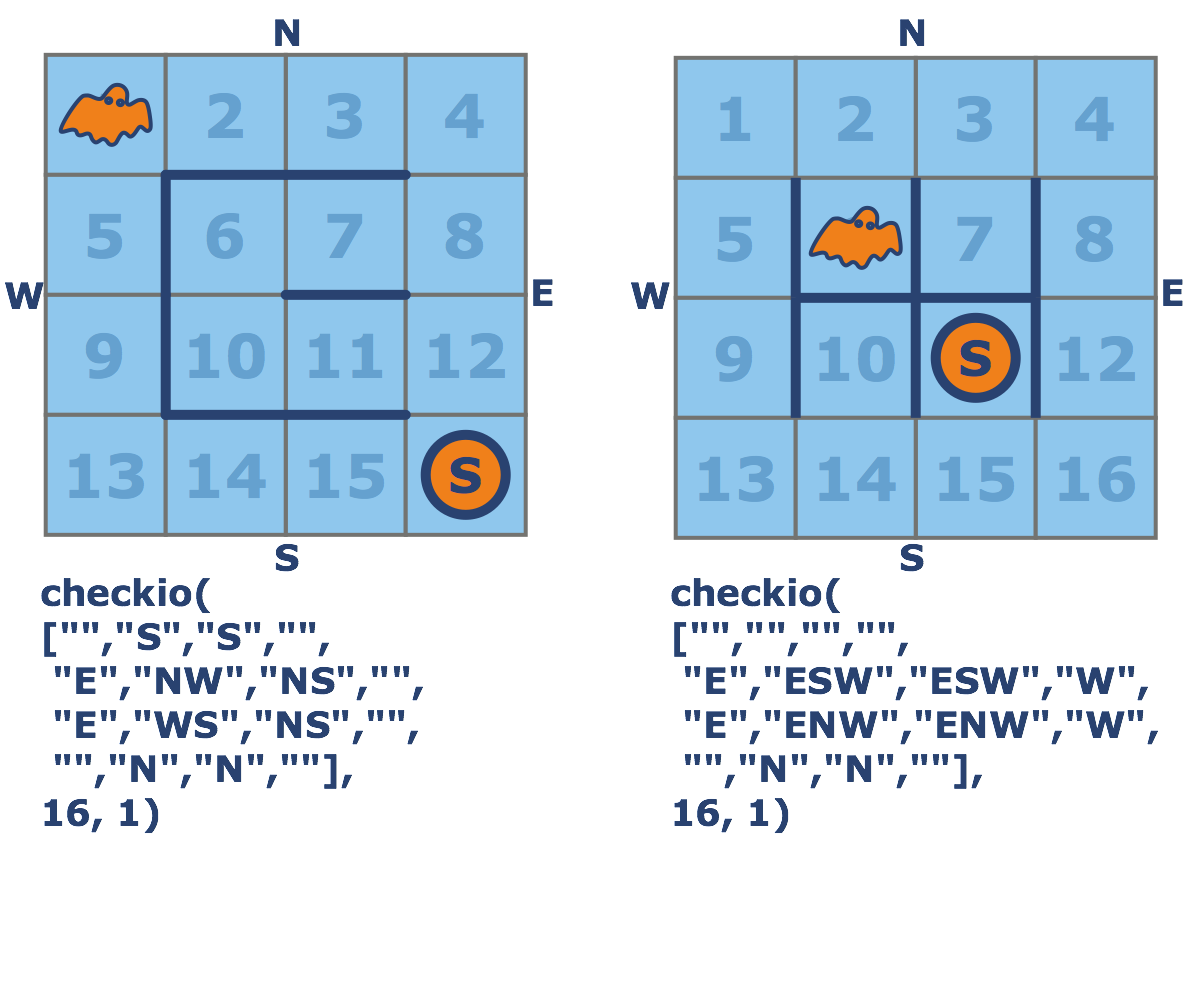
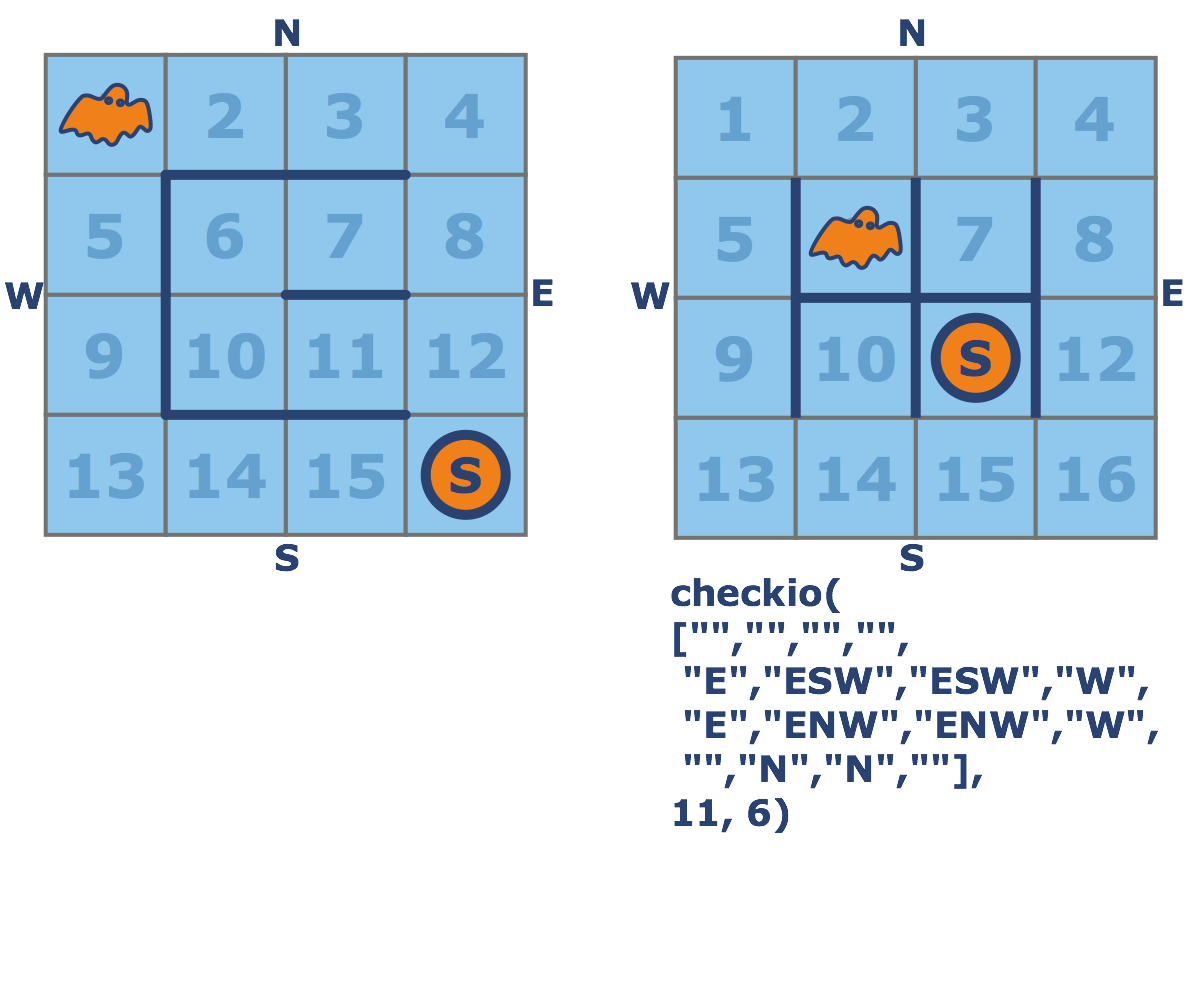
initial codes

Changed region(s): [[0.0308, 0.558, 0.3392, 0.837], [0.5858, 0.806, 0.6475, 0.837], [0.2775, 0.775, 0.3083, 0.806]]

diff --git a/info/task_description.html b/info/task_description.html
@@ -59,7 +59,7 @@ checkio(
      "E", "ESW", "ESW", "W",
      "E", "ENW", "ENW", "W",
      "", "N", "N", ""],
-    16, 1)
+    11, 6)
 </pre>
 </div>
 
